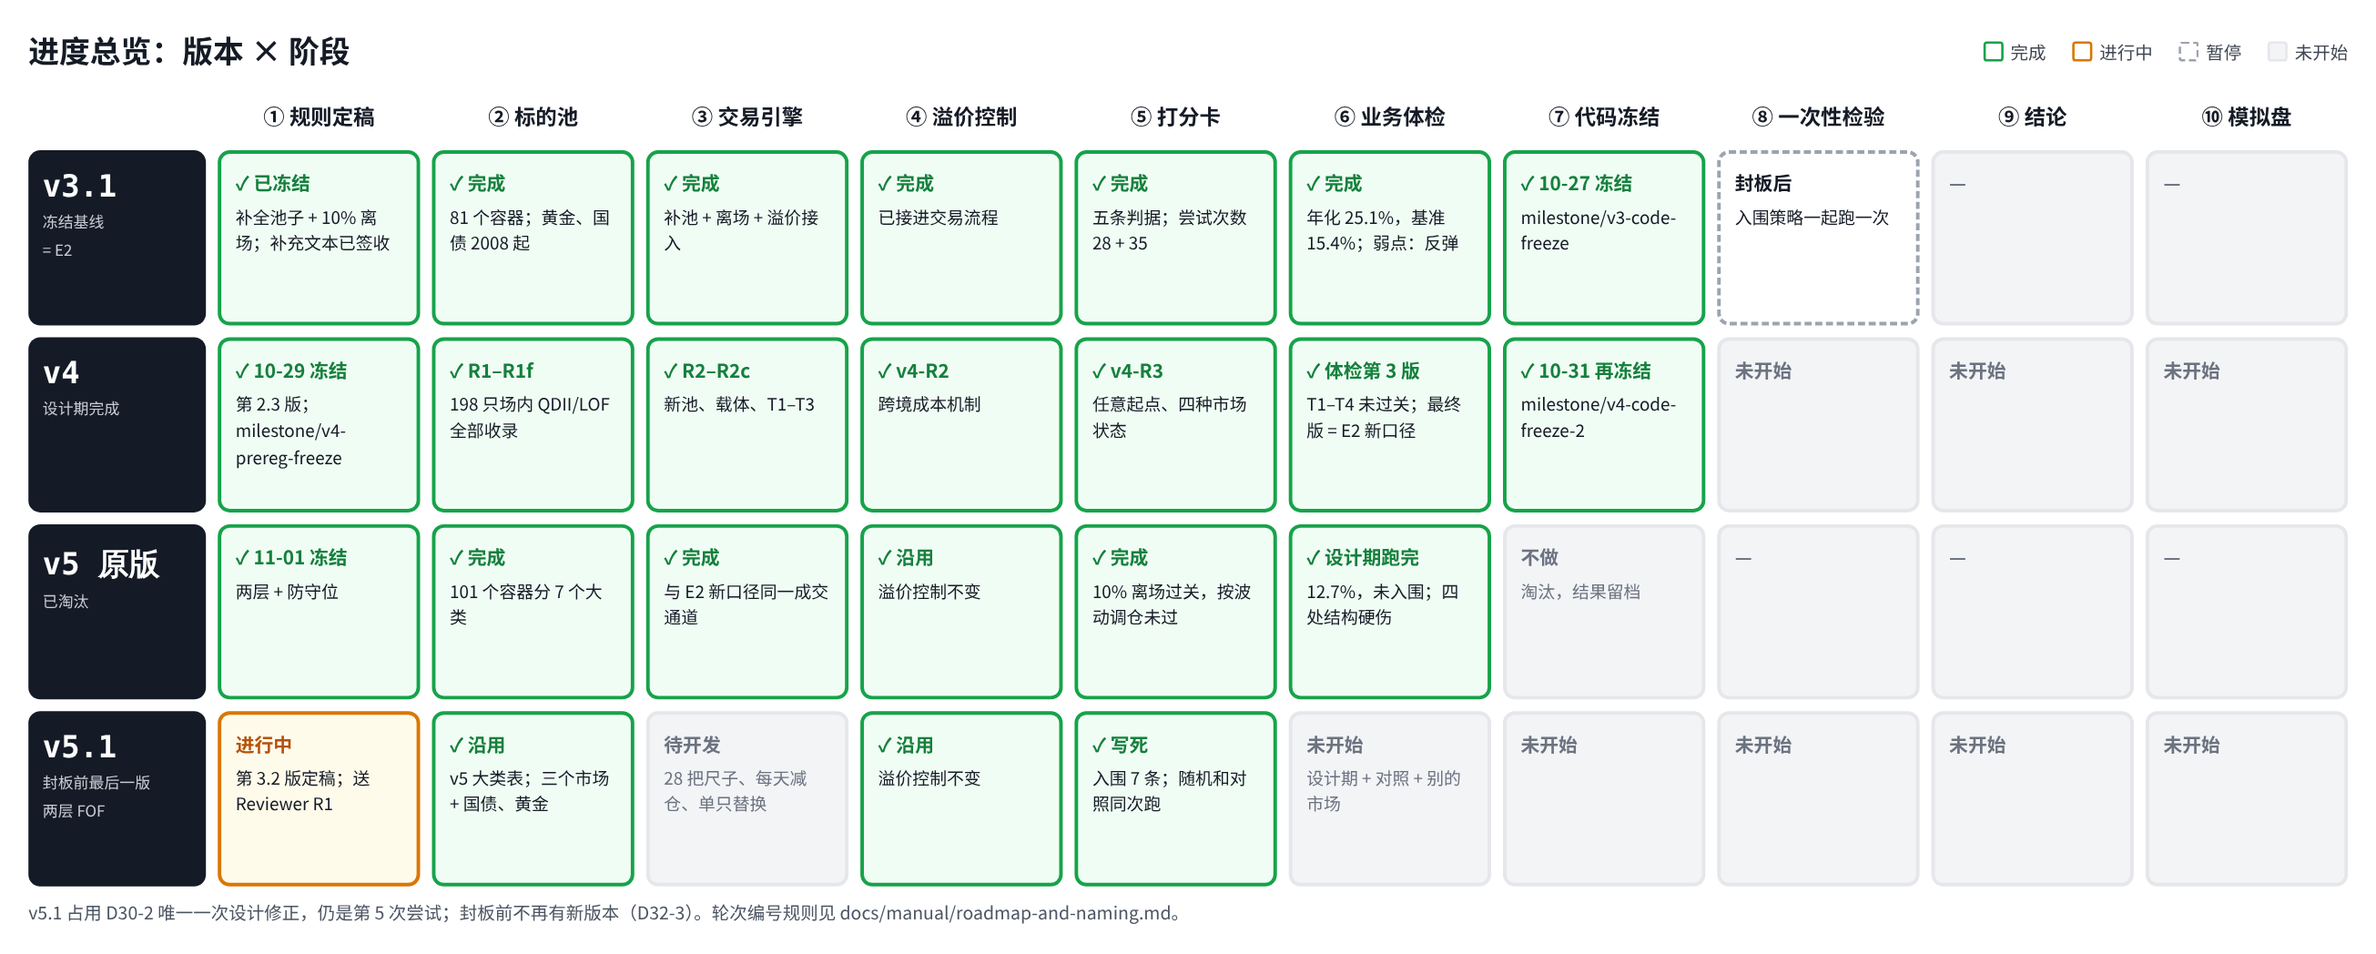
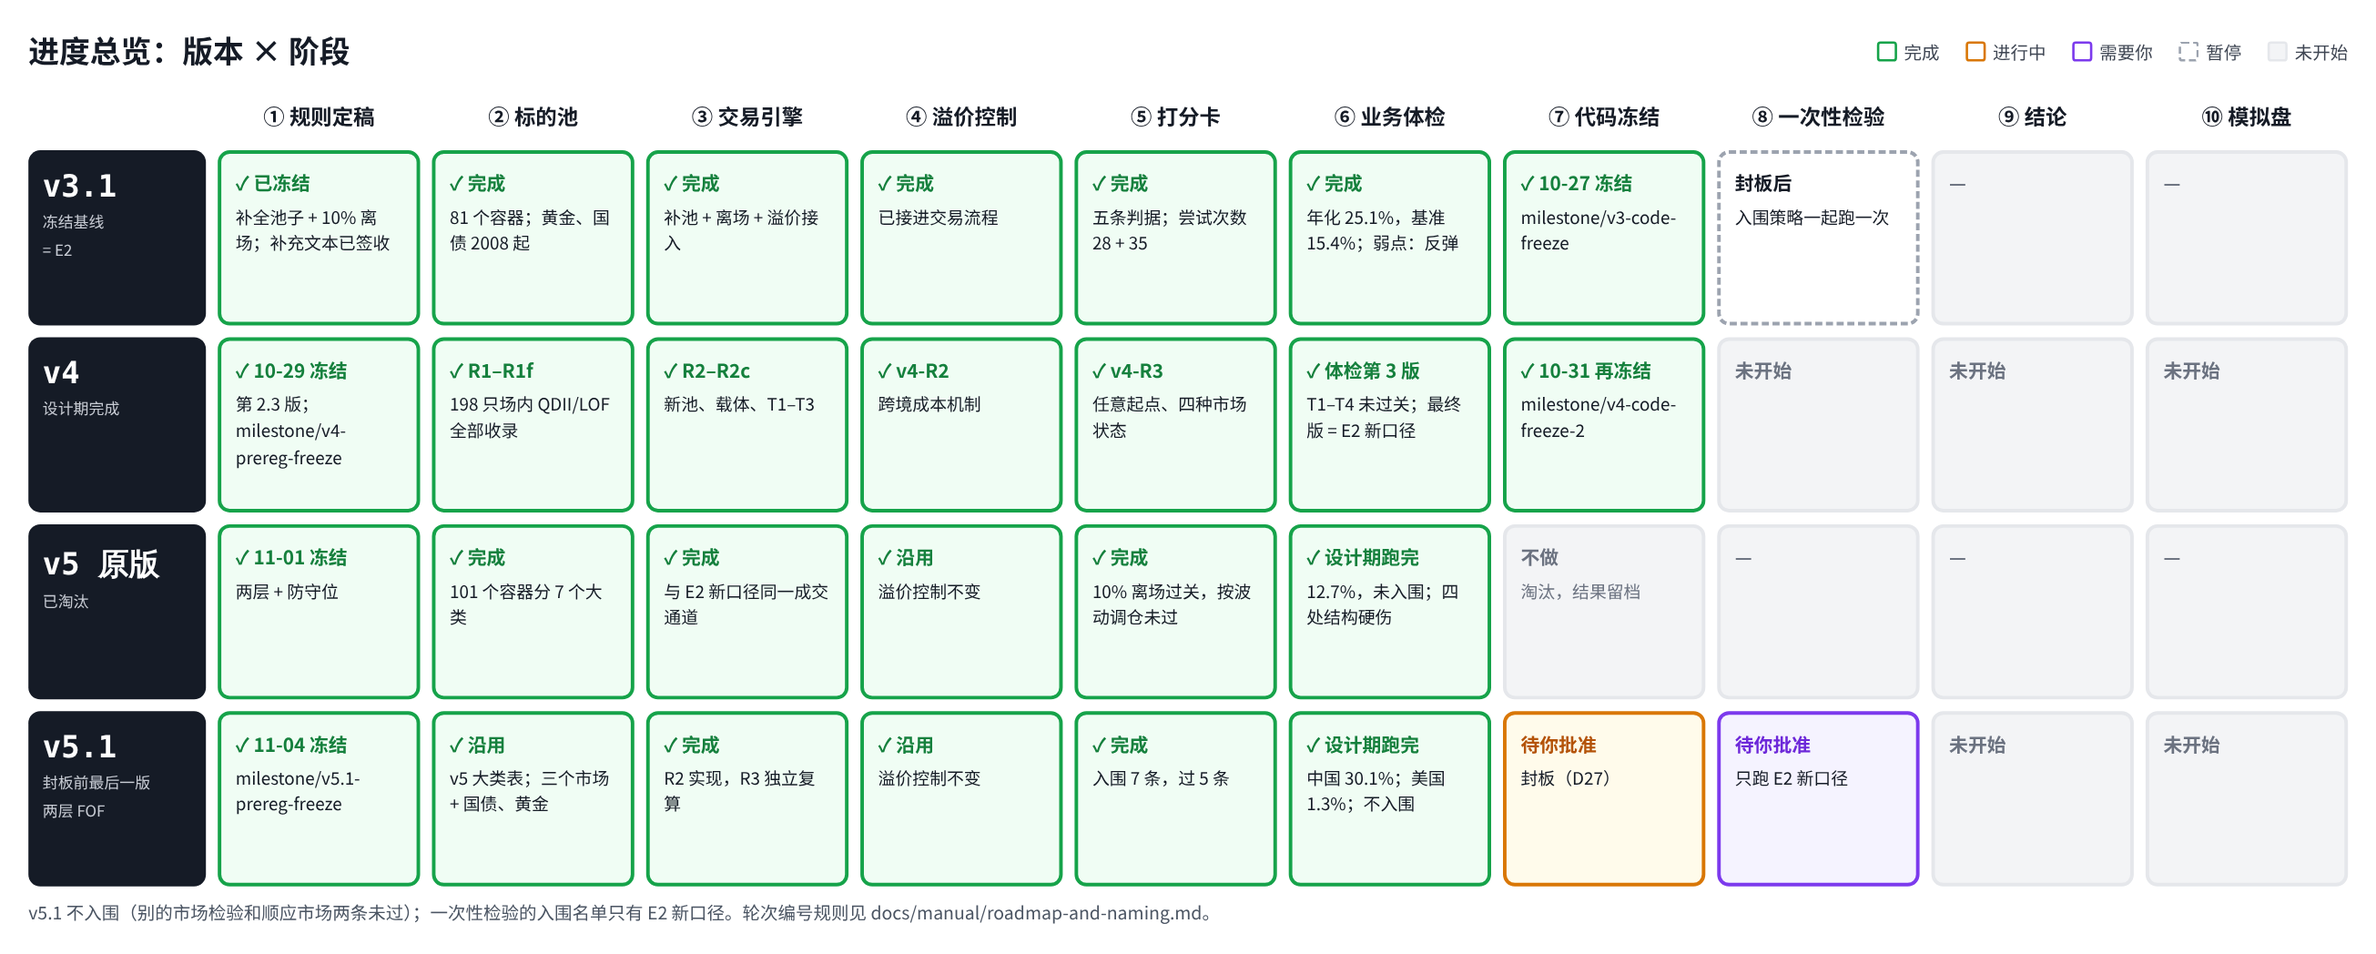
v5.1 设计期报告：备忘第 21 版第 0 节（不入围：中国 30.1%，别的市场 1.3%，换手是主因）；看板同步
Claude-Session: https://claude.ai/code/session_01PmXaEwvnhMrSzwWPeiEpbL

diff --git a/results/v5.1/report/charts.py b/results/v5.1/report/charts.py
@@ -1,0 +1,68 @@
+"""v5.1 设计期报告的图（读已签收的结果文件，不重跑）。m18 中国指数池净值和回撤；m19 别的市场扣费前后；m20 换手来源。
+用法：python results/v5.1/report/charts.py docs/assets/v5-memo
+"""
+import sys, pathlib
+ROOT = pathlib.Path(__file__).resolve().parents[3]
+import pandas as pd, numpy as np
+import matplotlib; matplotlib.use('Agg')
+import matplotlib.pyplot as plt
+plt.rcParams.update({'font.family': ['Noto Sans CJK SC'], 'axes.unicode_minus': False, 'axes.spines.top': False, 'axes.spines.right': False, 'font.size': 11.5, 'axes.edgecolor': '#9ca3af'})
+INK, MUTED, BLUE, GREY, BAD, GOOD, A1C, TEAL = '#151b26', '#5d6676', '#1d4ed8', '#9ca3af', '#c2410c', '#15803d', '#d97706', '#0d9488'
+OUT = pathlib.Path(sys.argv[1]); R = ROOT / 'results'
+def title(fig, t, s):
+    h = fig.get_figheight(); fig.text(.06, 1 + .42 / h, t, fontsize=14.5, weight='bold', color=INK); fig.text(.06, 1 + .12 / h, s, fontsize=10.5, color=MUTED)
+def net(f, col='net'):
+    d = pd.read_csv(f, parse_dates=[0], index_col=0); return d[col] if col in d else d.iloc[:, 0]
+# m18
+v = net(R / 'v5.1/design/index/daily.csv').loc['2006':'2015']
+b0 = net(R / 'v4/r5/design/B0/index/net.csv').loc['2006':'2015']; a1 = net(R / 'v4/r5/design/A1/index/net.csv').loc['2006':'2015']
+bm = net(R / 'v5.1/design/benchmark.csv', 'benchmark').loc['2006':'2015']
+df = pd.DataFrame({'v5.1': v, 'B0（E2 新口径）': b0, 'A1': a1, '基准': bm}).fillna(0); nav = (1 + df).cumprod()
+cols = {'v5.1': BAD, 'B0（E2 新口径）': BLUE, 'A1': A1C, '基准': GREY}
+fig, (ax, bx) = plt.subplots(2, 1, figsize=(13, 6.4), sharex=True, gridspec_kw={'height_ratios': [2.2, 1]})
+for c in nav:
+    ax.plot(nav.index, nav[c], color=cols[c], lw=2.8 if c == 'v5.1' else 1.8, label=c)
+    ax.text(nav.index[-1] + pd.Timedelta(days=40), nav[c].iloc[-1], f'{c} {nav[c].iloc[-1]:.1f} 倍', color=cols[c], fontsize=10.5, weight='bold' if c == 'v5.1' else None, va='center')
+    dd = nav[c] / nav[c].cummax() - 1; bx.plot(dd.index, dd * 100, color=cols[c], lw=2.2 if c == 'v5.1' else 1.4)
+ax.set_ylabel('净值（2006 年初 = 1）', color=MUTED); ax.grid(axis='y', alpha=.22); ax.set_xlim(nav.index[0], nav.index[-1] + pd.Timedelta(days=500))
+bx.set_ylabel('回撤 %', color=MUTED); bx.grid(axis='y', alpha=.22); bx.axhline(0, color=GREY, lw=.8)
+bx.text(nav.index[-1] + pd.Timedelta(days=40), -26, 'v5.1 最深 −26%', color=BAD, fontsize=10, weight='bold'); bx.text(nav.index[-1] + pd.Timedelta(days=40), -62, '基准最深 −65%', color=GREY, fontsize=10)
+ax.set_title('① 净值', loc='left', fontsize=12.5, weight='bold', color=INK); bx.set_title('② 回撤', loc='left', fontsize=12.5, weight='bold', color=INK)
+title(fig, '中国设计期：v5.1 年化 30%、最深回撤 −26%，是项目到目前最好的一版',
+      '能排名的池子（U-指数），2006–2015，扣费后。基准 = 70% 沪深300 + 15% 纳指100 + 15% 标普500。B0、A1 引用 v4 账本。')
+fig.tight_layout(); fig.savefig(OUT / 'm18-v51-china.png', dpi=200, bbox_inches='tight', facecolor='white'); plt.close(fig)
+# m19
+rows = []
+for k, f in (('v5.1', 'v51'), ('E2 式', 'e2')):
+    d = pd.read_csv(R / f'v5.1/other-market/{f}/daily.csv', parse_dates=['date']); yrs = len(d) / 252
+    rows.append((k, ((1 + d.gross).prod() ** (1 / yrs) - 1) * 100, ((1 + d.net).prod() ** (1 / yrs) - 1) * 100, (d.buy + d.sell).sum() / yrs))
+sm = pd.read_csv(R / 'v5.1/other-market/summary.csv'); sm = sm[sm.segment == 'full'].set_index('case')
+rows += [('A1', None, sm.at['A1', 'cagr'] * 100, None), ('基准 G', None, sm.at['BM-G', 'cagr'] * 100, None)]
+fig, ax = plt.subplots(figsize=(13, 4.4)); y = np.arange(len(rows))[::-1]
+for yi, (k, g, n, t) in zip(y, rows):
+    if g is not None:
+        ax.barh(yi + .18, g, .34, color='#cbd5e1', zorder=2); ax.text(g + .15, yi + .18, f'扣费前 {g:.1f}%', va='center', fontsize=10, color=MUTED)
+    col = BAD if k == 'v5.1' else (GREY if k == '基准 G' else BLUE if k == 'E2 式' else A1C)
+    ax.barh(yi - .18 if g is not None else yi, n, .34, color=col, zorder=2); ax.text(n + .15, (yi - .18) if g is not None else yi, f'扣费后 {n:.1f}%' + (f'　每年双边换手 {t:.0f} 倍' if t else ''), va='center', fontsize=10.5, color=col, weight='bold')
+ax.set_yticks(y, [r[0] for r in rows]); ax.set_xlim(0, 13); ax.set_xlabel('年化 %（2003-07 → 2026-09）', color=MUTED); ax.grid(axis='x', alpha=.22)
+title(fig, '换到美国 ETF：v5.1 扣费前就没赢基准，换手又吃掉近 6 个点，只剩 1.3%',
+      '别的市场检验（G 池：美国、发达市场、新兴市场 ETF + IEF、GLD，美元，每腿成本 0.1%）。规则一个数都没改。')
+fig.tight_layout(); fig.savefig(OUT / 'm19-v51-gpool.png', dpi=200, bbox_inches='tight', facecolor='white'); plt.close(fig)
+# m20
+SRC = ['第一层档位', '周度替换', '前沿离场', '换防守', '换市场', '硬闸门']
+NM = {'第一层档位': '第一层仓位档位（满仓 ↔ 半仓 ↔ 离场）', '周度替换': '第二层每周换人', '前沿离场': '单只前沿过半', '换防守': '国债、黄金、现金之间切换', '换市场': '换市场', '硬闸门': '硬闸门'}
+CL = {'第一层档位': BAD, '周度替换': A1C, '前沿离场': TEAL, '换防守': GREY, '换市场': BLUE, '硬闸门': '#7c3aed'}
+fig, ax = plt.subplots(figsize=(13, 3.6)); labs = []
+for i, (f, nm) in enumerate((('g', '美国 ETF（G 池）'), ('index', '中国指数池'), ('tradable', '中国可交易池'))):
+    t = pd.read_csv(R / f'v5.1/turnover/{f}.csv'); n = t.year.nunique(); a = t[t.source.isin(SRC)].groupby('source').turnover_one_way.sum() / n
+    left = 0
+    for s in SRC:
+        ax.barh(i, a.get(s, 0), left=left, color=CL[s], label=NM[s] if i == 0 else None, zorder=2, edgecolor='white')
+        if a.get(s, 0) > 1.2: ax.text(left + a.get(s, 0) / 2, i, f'{a.get(s, 0):.0f}', ha='center', va='center', color='white', fontsize=10, weight='bold')
+        left += a.get(s, 0)
+    ax.text(left + .3, i, f'合计单边 {left:.0f} 倍/年', va='center', fontsize=10.5, color=INK, weight='bold'); labs.append(nm)
+ax.set_yticks(range(3), labs); ax.set_xlim(0, 34); ax.set_xlabel('每年单边换手（本金的倍数）', color=MUTED); ax.grid(axis='x', alpha=.22)
+ax.legend(frameon=False, ncol=3, fontsize=9.5, loc='upper center', bbox_to_anchor=(.5, -.28))
+title(fig, '换手的一大半来自第一层仓位在满仓和半仓之间来回切，其次是第二层每周换人',
+      '设计期（中国 2006–2015）和别的市场（美国 2003–2026），按来源拆开的单边换手；双边换手和成本约为它的两倍。')
+fig.tight_layout(); fig.savefig(OUT / 'm20-v51-turnover.png', dpi=200, bbox_inches='tight', facecolor='white'); plt.close(fig)

diff --git a/docs/assets/owner-board/src/roadmap.py b/docs/assets/owner-board/src/roadmap.py
@@ -4,7 +4,7 @@ D,P,Y,W,N='done','prog','you','wait','none'
 rows=[('v3.1','冻结基线<br>= E2',[(D,'✓ 已冻结','补全池子 + 10% 离场；补充文本已签收'),(D,'✓ 完成','81 个容器；黄金、国债 2008 起'),(D,'✓ 完成','补池 + 离场 + 溢价接入'),(D,'✓ 完成','已接进交易流程'),(D,'✓ 完成','五条判据；尝试次数 28 + 35'),(D,'✓ 完成','年化 25.1%，基准 15.4%；弱点：反弹'),(D,'✓ 10-27 冻结','milestone/v3-code-freeze'),(W,'封板后','入围策略一起跑一次'),(N,'—',''),(N,'—','')]),
 ('v4','设计期完成',[(D,'✓ 10-29 冻结','第 2.3 版；milestone/v4-prereg-freeze'),(D,'✓ R1–R1f','198 只场内 QDII/LOF 全部收录'),(D,'✓ R2–R2c','新池、载体、T1–T3'),(D,'✓ v4-R2','跨境成本机制'),(D,'✓ v4-R3','任意起点、四种市场状态'),(D,'✓ 体检第 3 版','T1–T4 未过关；最终版 = E2 新口径'),(D,'✓ 10-31 再冻结','milestone/v4-code-freeze-2'),(N,'未开始',''),(N,'未开始',''),(N,'未开始','')]),
 ('v5 原版','已淘汰',[(D,'✓ 11-01 冻结','两层 + 防守位'),(D,'✓ 完成','101 个容器分 7 个大类'),(D,'✓ 完成','与 E2 新口径同一成交通道'),(D,'✓ 沿用','溢价控制不变'),(D,'✓ 完成','10% 离场过关，按波动调仓未过'),(D,'✓ 设计期跑完','12.7%，未入围；四处结构硬伤'),(N,'不做','淘汰，结果留档'),(N,'—',''),(N,'—',''),(N,'—','')]),
-('v5.1','封板前最后一版<br>两层 FOF',[(P,'进行中','第 3.2 版定稿；送 Reviewer R1'),(D,'✓ 沿用','v5 大类表；三个市场 + 国债、黄金'),(N,'待开发','28 把尺子、每天减仓、单只替换'),(D,'✓ 沿用','溢价控制不变'),(D,'✓ 写死','入围 7 条；随机和对照同次跑'),(N,'未开始','设计期 + 对照 + 别的市场'),(N,'未开始',''),(N,'未开始',''),(N,'未开始',''),(N,'未开始','')])]
+('v5.1','封板前最后一版<br>两层 FOF',[(D,'✓ 11-04 冻结','milestone/v5.1-prereg-freeze'),(D,'✓ 沿用','v5 大类表；三个市场 + 国债、黄金'),(D,'✓ 完成','R2 实现，R3 独立复算'),(D,'✓ 沿用','溢价控制不变'),(D,'✓ 完成','入围 7 条，过 5 条'),(D,'✓ 设计期跑完','中国 30.1%；美国 1.3%；不入围'),(P,'待你批准','封板（D27）'),(Y,'待你批准','只跑 E2 新口径'),(N,'未开始',''),(N,'未开始','')])]
 css='''body{margin:0;background:#fff;font-family:"Noto Sans CJK SC",sans-serif;color:#151b26}
 .w{width:1960px;padding:24px}.h{display:flex;justify-content:space-between;align-items:center;margin-bottom:18px}
 .t{font-size:26px;font-weight:700}.lg span{margin-left:22px;font-size:15px;color:#3f4653}.lg i{display:inline-block;width:13px;height:13px;border:2px solid;border-radius:3px;margin-right:6px;vertical-align:-2px}
@@ -12,11 +12,12 @@ css='''body{margin:0;background:#fff;font-family:"Noto Sans CJK SC",sans-serif;c
 .v{background:#151b26;color:#fff;border-radius:10px;padding:16px 12px}.v b{font-size:26px;display:block;font-family:"JetBrains Mono",monospace}.v small{font-size:13px;color:#c8ccd4}
 .c{border:3px solid;border-radius:10px;padding:12px;min-height:118px;font-size:14.5px;line-height:1.55}.c b{font-size:16px;display:block;margin-bottom:6px}
 .done{border-color:#16a34a;background:#f0fdf4}.done b{color:#15803d}.prog{border-color:#d97706;background:#fffbeb}.prog b{color:#b45309}
-.wait{border-color:#9ca3af;border-style:dashed;background:#fff}.none{border-color:#e5e7eb;background:#f3f4f6;color:#6b7280}.none b{color:#6b7280}
+.wait{border-color:#9ca3af;border-style:dashed;background:#fff}
+.you{border-color:#7c3aed;background:#f5f3ff}.you b{color:#6d28d9}.none{border-color:#e5e7eb;background:#f3f4f6;color:#6b7280}.none b{color:#6b7280}
 .f{margin-top:12px;font-size:15px;color:#4b5563}'''
-h=f'<!doctype html><meta charset=utf-8><style>{css}</style><div class=w id=r><div class=h><div class=t>进度总览：版本 × 阶段</div><div class=lg><span><i style="border-color:#16a34a"></i>完成</span><span><i style="border-color:#d97706"></i>进行中</span><span><i style="border-color:#9ca3af;border-style:dashed"></i>暂停</span><span><i style="border-color:#e5e7eb;background:#f3f4f6"></i>未开始</span></div></div><div class=g><div></div>'
+h=f'<!doctype html><meta charset=utf-8><style>{css}</style><div class=w id=r><div class=h><div class=t>进度总览：版本 × 阶段</div><div class=lg><span><i style="border-color:#16a34a"></i>完成</span><span><i style="border-color:#d97706"></i>进行中</span><span><i style="border-color:#7c3aed"></i>需要你</span><span><i style="border-color:#9ca3af;border-style:dashed"></i>暂停</span><span><i style="border-color:#e5e7eb;background:#f3f4f6"></i>未开始</span></div></div><div class=g><div></div>'
 h+=''.join(f'<div class=ch>{c}</div>' for c in cols)
 for v,sub,cells in rows:
     h+=f'<div class=v><b>{v}</b><small>{sub}</small></div>'+''.join(f'<div class="c {k}"><b>{a}</b>{b}</div>' for k,a,b in cells)
-h+='</div><div class=f>v5.1 占用 D30-2 唯一一次设计修正，仍是第 5 次尝试；封板前不再有新版本（D32-3）。轮次编号规则见 docs/manual/roadmap-and-naming.md。</div></div>'
+h+='</div><div class=f>v5.1 不入围（别的市场检验和顺应市场两条未过）；一次性检验的入围名单只有 E2 新口径。轮次编号规则见 docs/manual/roadmap-and-naming.md。</div></div>'
 open('rm.html','w').write(h)

diff --git a/docs/owner/v5-research-memo.md b/docs/owner/v5-research-memo.md
@@ -1,10 +1,10 @@
-# v5 研究备忘：原版淘汰，新设计定稿，进入设计期检验
+# v5 研究备忘：v5.1 中国十年最好，换个市场不成立，不入围
 
 ## Metadata
 
 - Project: ETF_Rotation_Quant
 - Document type: research
-- Status: active（第 20.2 版；R1 后画像按冻结规则重算；保留 10% 硬闸门；设计稿第 3.2 版定稿：自适应离场、默认国债、预期疼痛表）
+- Status: active（第 21 版；v5.1 设计期结果：不入围；封板待批准）
 - Owner: L. Loric
 - Maintainer: Orchestrator
 - Date: 2026-11-04
@@ -17,7 +17,63 @@
 
 | 现状 | 结论 | 需要你 |
 | --- | --- | --- |
-| **原版已淘汰；新设计（第 3.2 版）定稿。**预注册 v5.1 已送审，冻结后进入设计期检验。 | “稳定跑赢基准”拆成四格（两个池子 × 前后两段）：E2 新口径只赢 **1 格**，三个品种的 A1 **4 格全赢**。v5 要补的是 E2 缺的 3 格；原版也只赢 1 格，输在结构。 | **v5 按第 3.2 版定稿**，预注册已送 Reviewer R1；签收冻结后进入设计期检验（第 2 节节末）。 |
+| **v5.1 设计期跑完，不入围。**中国十年年化 30%、回撤 −26%；美国 ETF 上只有 1.3%。下一步按 D27 封板，一次性检验只有 B0。 | v5.1 中国指数池年化 **30.1%**、可交易池 15.8%（基准 15.6%），回撤 −26%；但美国 ETF 上只有 **1.3%**。优势依赖中国的急涨急跌，换手太高是主因。 | **两件事要你批准**：按 D27 封板；一次性检验只跑 B0（写 LOCK）。见第 0 节 ⑤。 |
+
+## 0. 设计期结果：中国十年是最好的一版，换个市场不成立，v5.1 不入围
+
+> **中国设计期年化 30%、最深回撤 −26%，四个对照都赢了；但同一套规则放到美国 ETF 上，二十多年只有 1.3%。主要原因是换手太高：每年双边换手 43–59 倍，成本吃掉 3–6 个点，这是我事前画像里估错的地方。按跑之前写死的规则，v5.1 不入围，一次性检验只有 B0。**
+
+### ① 入围 7 条：过了 5 条，栽在“换个市场”和“顺应市场”
+
+| 条 | 要求 | 结果 | 判定 |
+| --- | --- | --- | --- |
+| **0 先赢随机** | 年化 ÷ 回撤高于随机挑选的 95 分位 | 两个池都高于全部 2000 次；同结构随机（只把挑选换成随机、仓位档位照抄）也高于 99.8% | **通过** |
+| **1 跑赢基准** | 十年年化高于基准，四格不明显跑输 | 指数池 **30.1%**，可交易池 15.8%，基准 15.6% | **通过** 可交易池险过 |
+| **2 不明显输给 A1** | 相对 A1 的 t 值不低于 −2 | 指数池 +0.45，可交易池 −1.03 | **通过** |
+| **3 赢过更简单的版本** | 高于等权版、波动比版 | 28.5%、14.4% | **通过** |
+| **4 回撤不比基准深** | 最大回撤不深于基准 | **−25.9%**，基准 −65.5% | **通过** |
+| **5 别的市场也成立** | 美国 ETF 上赢随机、赢基准 | 年化 **1.3%**，基准 8.2% | **未通过** |
+| **6 顺应市场** | 牛市超额 ≥ 0；反弹 t 值 ≥ −2 | 牛市 **−28**；反弹 t 值 **−2.36** | **未通过** |
+
+第 2 条通过，所以 A1 的退路不启用；入围名单只有 B0。这些都是跑之前写死的，看到结果以后不改。
+
+### ② 中国十年：每一年和事前画像对得上
+
+![中国设计期 v5.1、B0、A1、基准的净值和回撤](../assets/v5-memo/m18-v51-china.png)
+
+| 年份 | 事前预测（和 B0 比） | v5.1 | B0 | 基准 | 对了吗 |
+| --- | --- | --- | --- | --- | --- |
+| **2006–07** | 少赚 | 74%、93% | 106%、156% | 83%、104% | **对** |
+| **2008** | 略好 | **−1%** | −23% | −60% | **对** 好得比预想多 |
+| **2009** | 少赚 | 45% | 43% | 83% | **一半** 跑输基准，但没输 B0 |
+| **2010–14** | 明显多赚 | 7、8、9、8、49% | −7、−10、2、10、35% | −4、−18、12、5、45% | **对** |
+| **2015** | 略好 | **30%** | 15% | 10% | **对** 好得比预想多 |
+| **可交易池** | 明显好于 B0 | 15.8% | 8.7% | 15.6% | **对** |
+
+- **转折时点都落在疼痛表里**：2007、2009、2015 年见顶后 8–27 天减到半仓；2008 年见底后 10 天回到半仓、45 天满仓。和设计时的画像完全一致。
+- **稳健**：17 行稳健性里，指数池年化在 24–38% 之间；成本加倍 25.8%，只在周末减仓 28.6%，不设硬闸门 30.0%，去掉最好的 3 只仍是 30.8%。
+
+### ③ 换到美国 ETF：扣费前就没赢，成本又吃掉近 6 个点
+
+![别的市场检验：扣费前后的年化](../assets/v5-memo/m19-v51-gpool.png)
+
+- **转折照样做得快**：2008、2020、2022 年见顶后 5–34 天减到半仓；2009、2020 年见底后 4–17 天回到半仓。规则在美国也按设计在动。
+- **但美国的牛市又长又平**：回调浅，前沿在一半附近反复晃，仓位反复被减到一半。扣费前 7.4%，已经低于基准 8.2% 和 E2 式 8.9%。中国的牛市第 6 条也是同样的问题（牛市超额 −28），只是中国的大趋势和大崩盘够剧烈，快速离场的好处盖过了它。
+- **所以中国十年的 30% 有相当一部分来自中国市场的特性**：急涨急跌时，快速离场、快速回场很值钱；市场平缓时，同一个机制变成了来回付成本。这正是别的市场检验要回答的问题。
+
+### ④ 换手从哪来，以及我估错的地方
+
+![按来源拆开的每年单边换手](../assets/v5-memo/m20-v51-turnover.png)
+
+**我的错**：疼痛表写的是“震荡时每年多花约 1–2 个百分点”，实际中国 3–4 个点、美国近 6 个点。我只算了第一层档位变动的次数，没有把每次变动要换掉的仓位、和第二层每周换人的成本折算进去。画像里其实已经有这些次数（十年 187 次档位变动、176 次每周换人），是我在“跑前五问”第 4 问上停在了“数次数”，没有往下走一步“算成本”。以后的跑前评估要把触发次数直接换算成每年的换手和成本。
+
+### ⑤ 接下来
+
+1. **按 D27 封板**：v5 是封板前最后一个版本，不论结果都封板；v5.1 不再改。
+2. **一次性检验**：入围只有 B0（E2 新口径），在 2016–2026 已污染检验段跑一次，须你批准、写 LOCK。
+3. **留给 v6 的三条**：① 第一层仓位加回差，减仓线和加仓线分开（来回切是最大的换手来源）；② 第二层少换人，比如新的必须明显更强才换；③ 跑前评估把触发次数换算成成本。v6 按 D27-5 的路径：设计证据 → 别的市场 → 至少 6 个月并行模拟 → 小资金起步。
+
+全部结果都经 Reviewer 独立复算签收：设计期、对照、别的市场、稳健性 17 行、同结构随机、换手拆解（`results/v5.1/`）。账本 30 行，判据 ⑤ 只数可能入围的配置。
 
 ## 1. v5 要解决什么：两个池子、前后两段，都稳定跑赢基准
 
